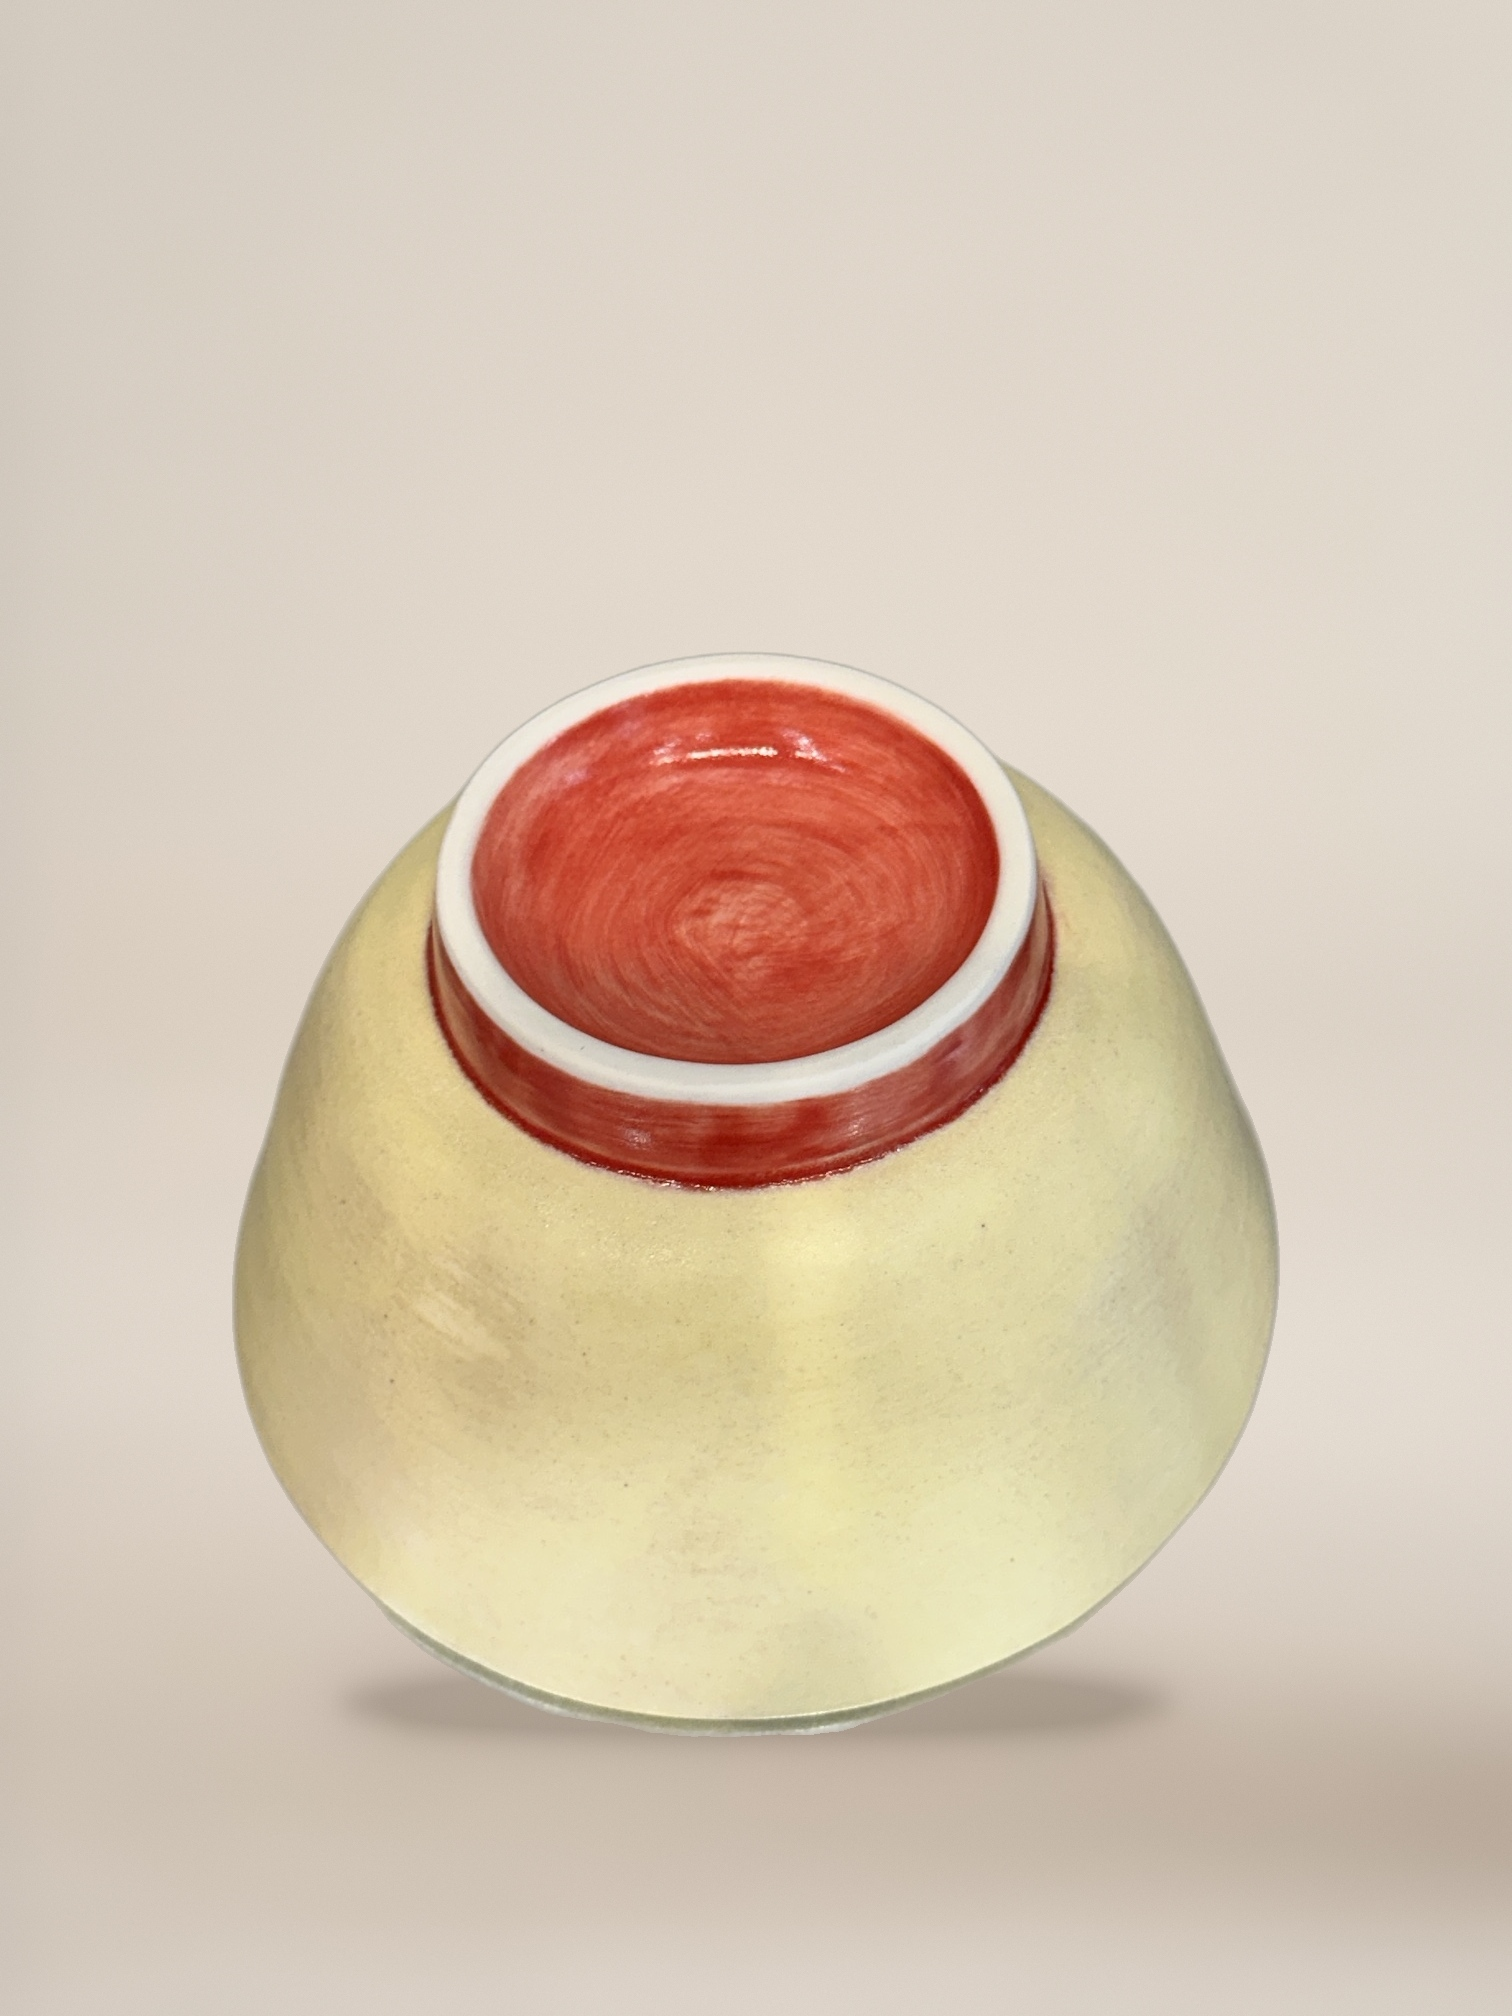
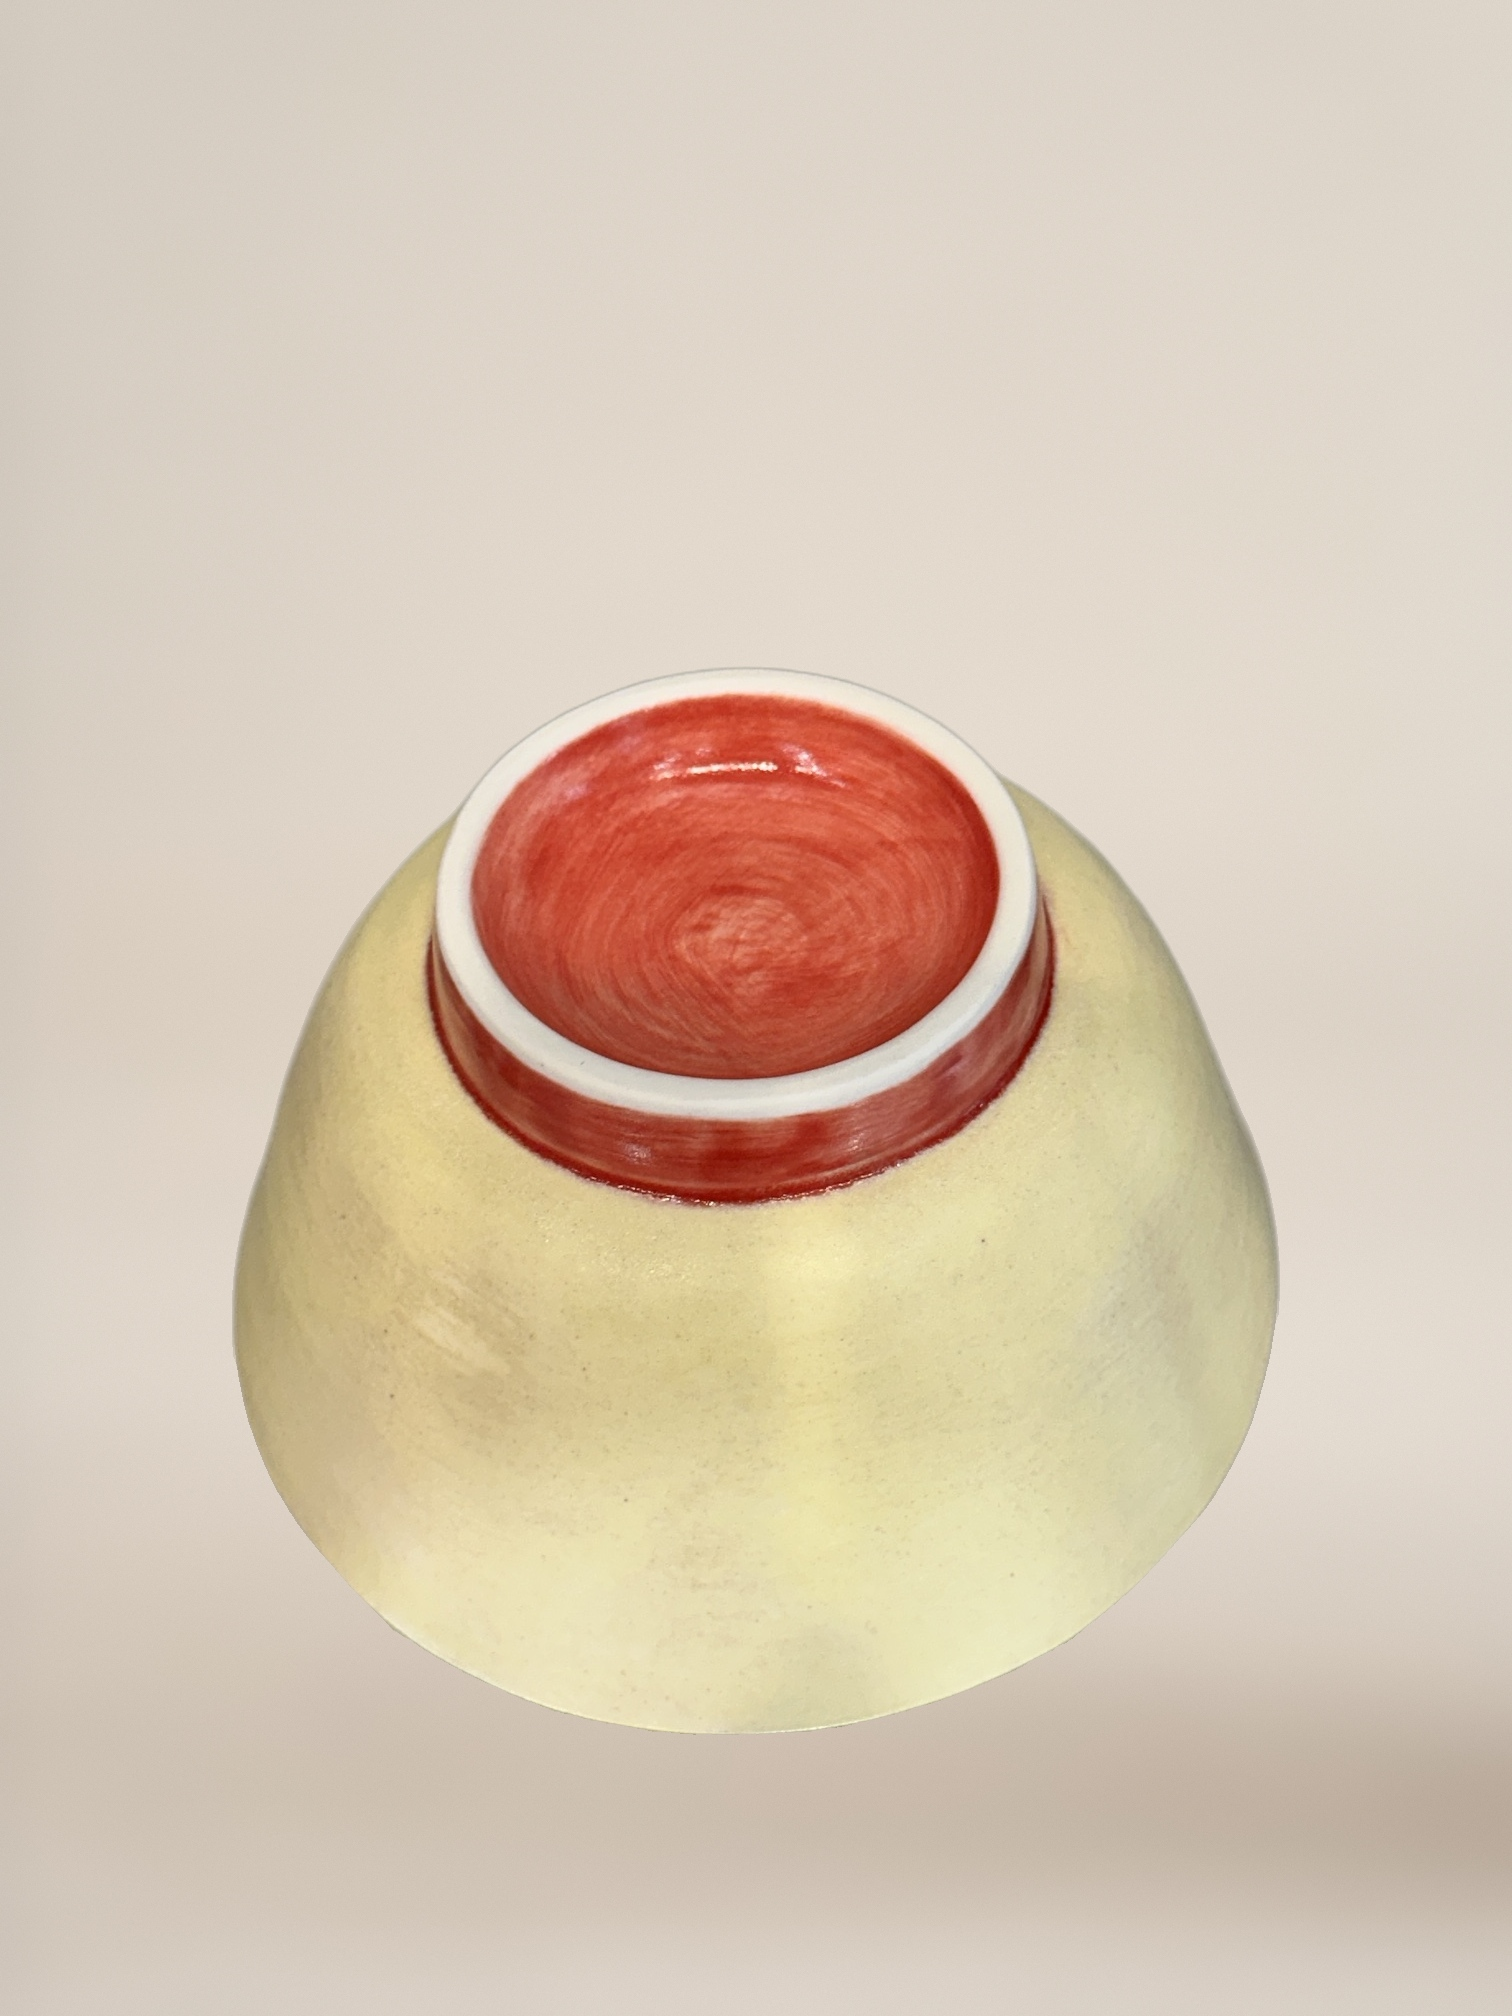
Remove floor reflection band and drop added shadow
Cut the mirrored rim reflection on the metal surface out of the product
mask (only along the shallow bottom arc, with smoothed depth so the side
contour stays intact) and remove the synthetic floor shadow. Product
pixels remain bit-identical to the original.

Claude-Session: https://claude.ai/code/session_01WGwx9JVhJ7CYZxXMbtASsV

diff --git a/tools/replace_background.py b/tools/replace_background.py
@@ -1,7 +1,8 @@
 """도자기 제품 사진의 배경 교체 스크립트.
 
 제품 픽셀은 일절 수정하지 않는다. 마스크 안쪽 픽셀은 원본 값을 그대로
-복사하고, 배경만 참고 이미지의 색감으로 새로 만든 뒤 바닥 그림자를 더한다.
+복사하고, 배경만 참고 이미지의 색감으로 새로 만든다. 바닥에 비친 반사 띠는
+마스크에서 제외한다.
 
 사용법:
     python tools/replace_background.py product.jpg bg_reference.jpg out.jpg
@@ -45,22 +46,51 @@ def make_background(ref_bgr, w, h):
     return bg
 
 
-def add_shadow(bg, alpha, strength=0.38):
-    """제품 바닥 접지 그림자 (부드러운 타원 + 진한 접촉선)."""
+def remove_bottom_reflection(img_bgr, alpha, search=32, thr=185):
+    """제품 아래 바닥(금속)에 비친 반사 띠를 마스크에서 잘라낸다.
+
+    각 열마다 마스크 바닥에서 위쪽 search px(반사 띠 두께 정도) 범위만 위→아래로 훑어,
+    밝은 유약면이 끝나고 어두운 반사 띠가 시작되는 지점을 찾아 그 아래를 제거.
+    제품 픽셀 값은 건드리지 않고 마스크만 줄인다.
+    """
+    gray = cv2.cvtColor(img_bgr, cv2.COLOR_BGR2GRAY).astype(np.float32)
+    gray = cv2.GaussianBlur(gray, (0, 0), 1.0)
     h, w = alpha.shape
-    ys, xs = np.nonzero(alpha > 0.5)
-    bottom, left, right = ys.max(), xs.min(), xs.max()
-    cx, rw = (left + right) / 2, (right - left) / 2
-    sh = np.zeros((h, w), np.float32)
-    cv2.ellipse(sh, (int(cx), int(bottom - rw * 0.06)),
-                (int(rw * 0.80), int(rw * 0.07)), 0, 0, 360, 1.0, -1)
-    soft = cv2.GaussianBlur(sh, (0, 0), rw * 0.07) * 0.8
-    cv2.ellipse(sh, (int(cx), int(bottom - rw * 0.02)),
-                (int(rw * 0.70), int(rw * 0.025)), 0, 0, 360, 1.0, -1)
-    contact = cv2.GaussianBlur(sh, (0, 0), rw * 0.025)
-    s = np.clip(soft + contact * 0.9, 0, 1) * strength
-    tint = np.array([0.80, 0.86, 0.92], np.float32)  # 따뜻한 갈색 톤 그림자 (BGR)
-    return bg * (1 - s[..., None] * (1 - tint * 0.6))
+    solid = alpha > 0.5
+    xs = np.nonzero(solid.any(0))[0]
+    cut = np.full(w, -1.0)
+    for x in xs:
+        ys = np.nonzero(solid[:, x])[0]
+        top, bot = ys.min(), ys.max()
+        for y in range(max(top, bot - search), bot + 1):
+            if gray[y, x] < thr and gray[min(y + 3, h - 1), x] < thr:
+                cut[x] = y
+                break
+        else:
+            cut[x] = bot + 1
+    # 바닥 윤곽이 완만한 구간(실제 바닥 테두리)에서만 자른다.
+    # 옆면처럼 가파른 열에서는 자르지 않아 계단이 생기지 않게 한다.
+    bots = np.array([np.nonzero(solid[:, x])[0].max() if solid[:, x].any() else -1
+                     for x in range(w)], np.float32)
+    slope = np.abs(np.gradient(bots))
+    valid = cut >= 0
+    steep = valid & (cv2.blur(slope.reshape(1, -1), (15, 1)).ravel() > 1.2)
+    cut[steep] = bots[steep] + 1
+    # 잘라낼 두께(깊이)를 매끈하게 → 윤곽 모양은 원본을 따르고 전환부 계단 방지
+    depth = np.where(valid, bots + 1 - cut, 0).astype(np.float32)
+    k = 15
+    pad = np.pad(depth, k, mode="edge")
+    depth = np.array([np.median(pad[i:i + 2 * k + 1]) for i in range(w)])
+    depth = np.convolve(np.pad(depth, 20, mode="edge"), np.ones(41) / 41, "valid")
+    c = (bots + 1 - depth)[valid]
+    yy = np.arange(h, dtype=np.float32)[:, None]
+    ramp = np.clip(c[None, :] - yy, 0, 1)  # 컷 경계 1px 안티앨리어싱
+    out = alpha.copy()
+    out[:, valid] = np.minimum(alpha[:, valid], ramp)
+    # 옆면 가파른 구간에서 생기는 계단/홈을 메운다 (원본 마스크 범위 안에서만)
+    k = cv2.getStructuringElement(cv2.MORPH_ELLIPSE, (61, 61))
+    closed = cv2.morphologyEx(out, cv2.MORPH_CLOSE, k)
+    return np.minimum(alpha, closed)
 
 
 def main():
@@ -75,7 +105,7 @@ def main():
     ref = cv2.imread(args.bg_reference)
     h, w = img.shape[:2]
 
-    alpha = product_mask(img)
+    alpha = remove_bottom_reflection(img, product_mask(img))
 
     # 제품을 가로 중앙으로 평행이동만 한다(크기 변경/회전 없음 → 픽셀 재샘플링 없음)
     ys, xs = np.nonzero(alpha > 0.5)
@@ -85,7 +115,7 @@ def main():
     img_t = cv2.warpAffine(img, M, (w, h), flags=cv2.INTER_NEAREST)
     alpha = cv2.warpAffine(alpha, M, (w, h), flags=cv2.INTER_NEAREST)
 
-    bg = add_shadow(make_background(ref, w, h), alpha)
+    bg = make_background(ref, w, h)
     a = alpha[..., None]
     out = img_t.astype(np.float32) * a + bg * (1 - a)
     out = np.clip(np.rint(out), 0, 255).astype(np.uint8)
